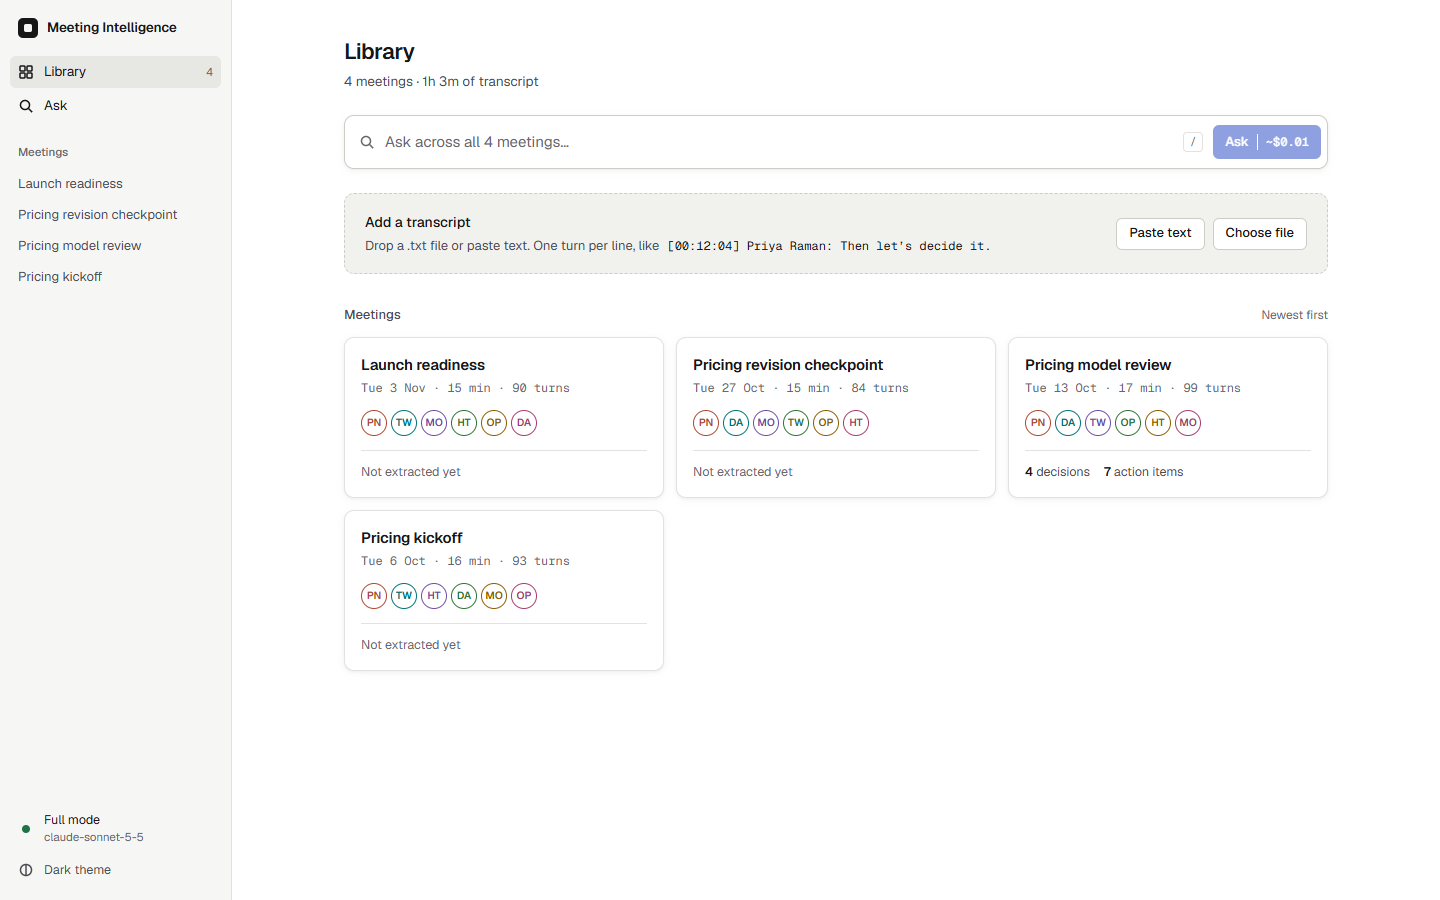
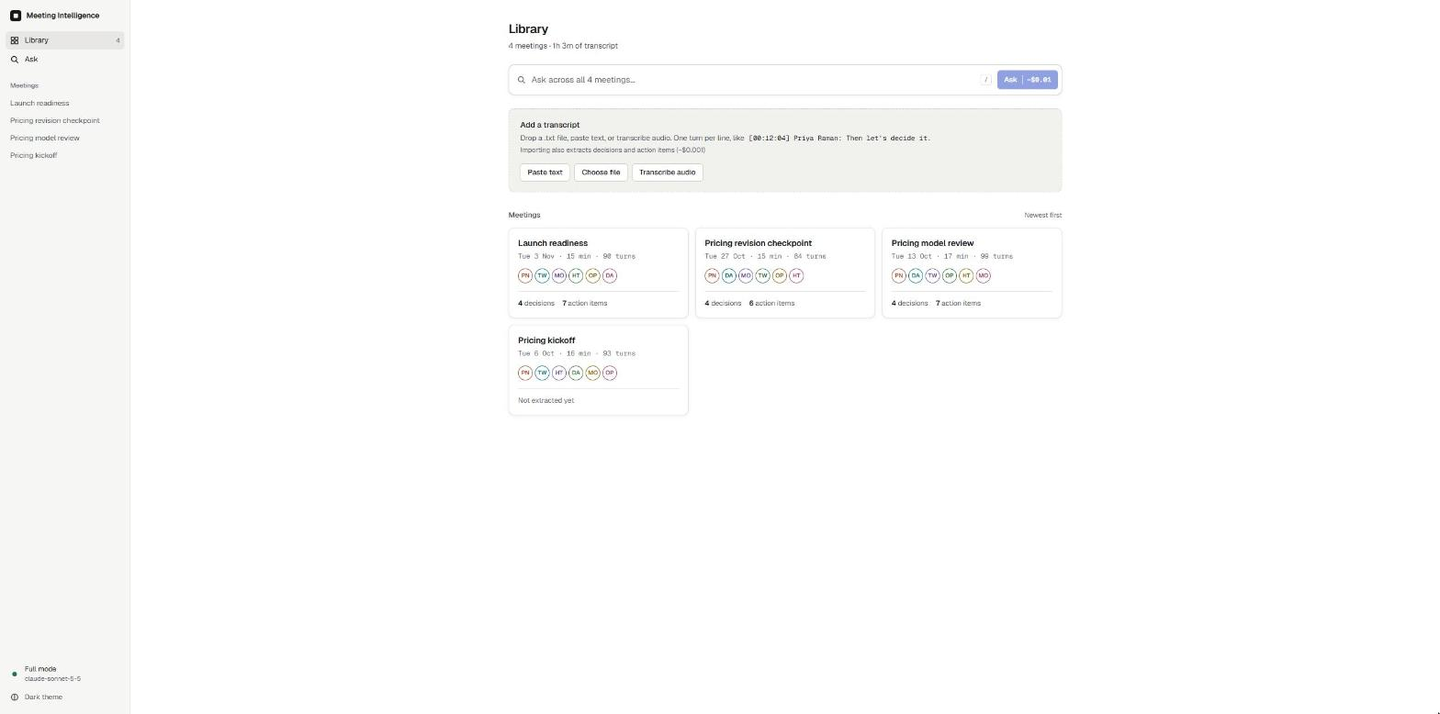
Screenshots: library with the audio import, and the voice review step
Claude-Session: https://claude.ai/code/session_01743n1wWTqu4Wwjfh8ZHbcY

diff --git a/README.md b/README.md
@@ -10,7 +10,7 @@ The README follows the brief's sections a to i. Sections a, b and f describe wha
 
 Taken from the running app. The full-mode shots use `claude-sonnet-5-5` with the four sample meetings loaded.
 
-![The library: four meetings, an ask box with a cost hint, and an upload area that takes a .txt file or pasted text](docs/screenshots/01-library.png)
+![The library: four meetings, an ask box with a cost hint, and an upload area that takes a .txt file, pasted text or audio, with a note that importing also runs a paid extraction](docs/screenshots/01-library.png)
 
 **Library.** Meeting cards show the date, length, speakers, and decision and action counts once a meeting has been extracted.
 
@@ -41,6 +41,10 @@ Taken from the running app. The full-mode shots use `claude-sonnet-5-5` with the
 ![The same ask view in the dark theme](docs/screenshots/08-dark-theme.png)
 
 **Dark theme.**
+
+![Reviewing a transcribed recording: three speakers found and renamed, merge and re-run controls in one row, and the draft transcript below. Nothing is saved until Import](docs/screenshots/09-voice-review.png)
+
+**Reviewing a transcribed recording before import.**
 
 ## a. Quick setup
 
